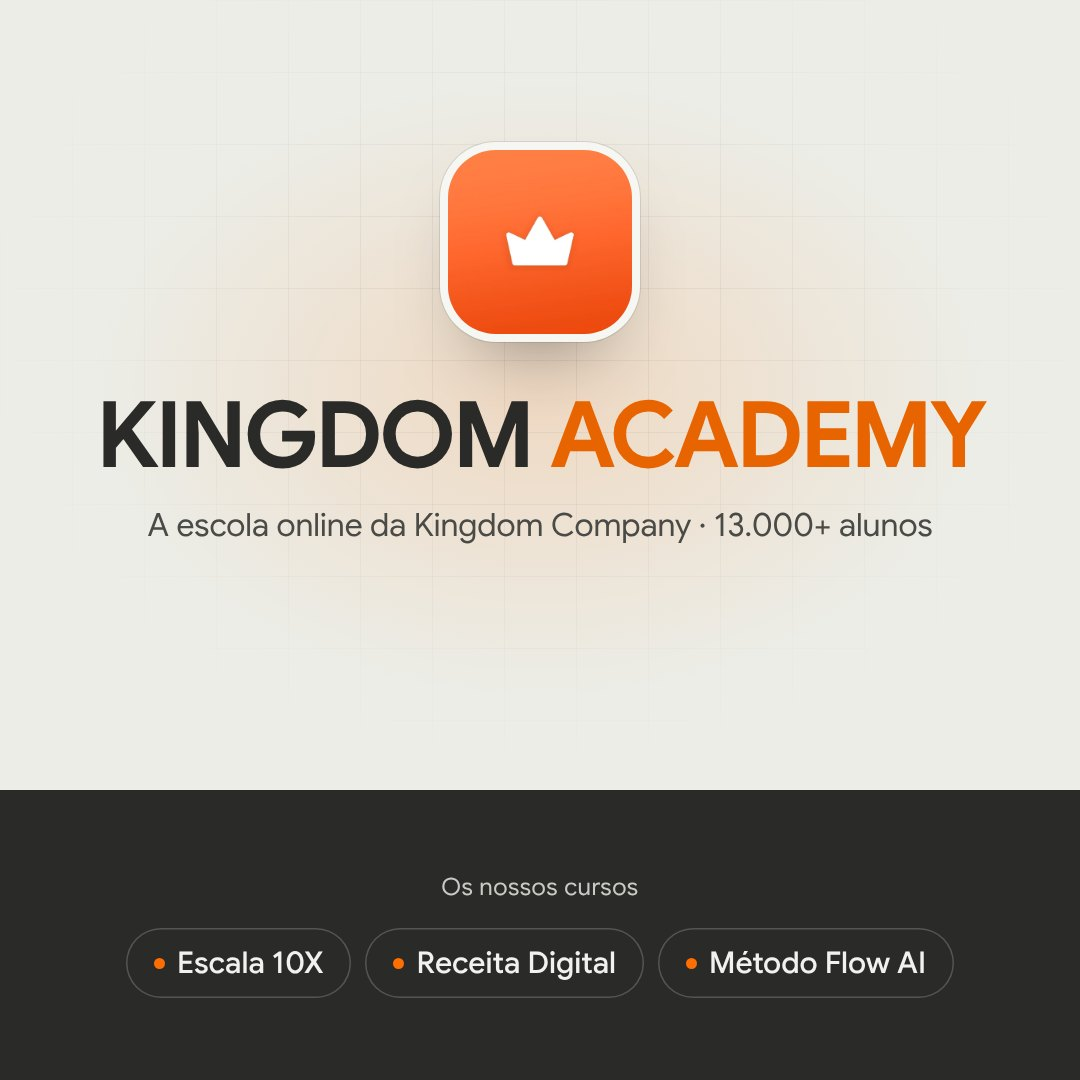
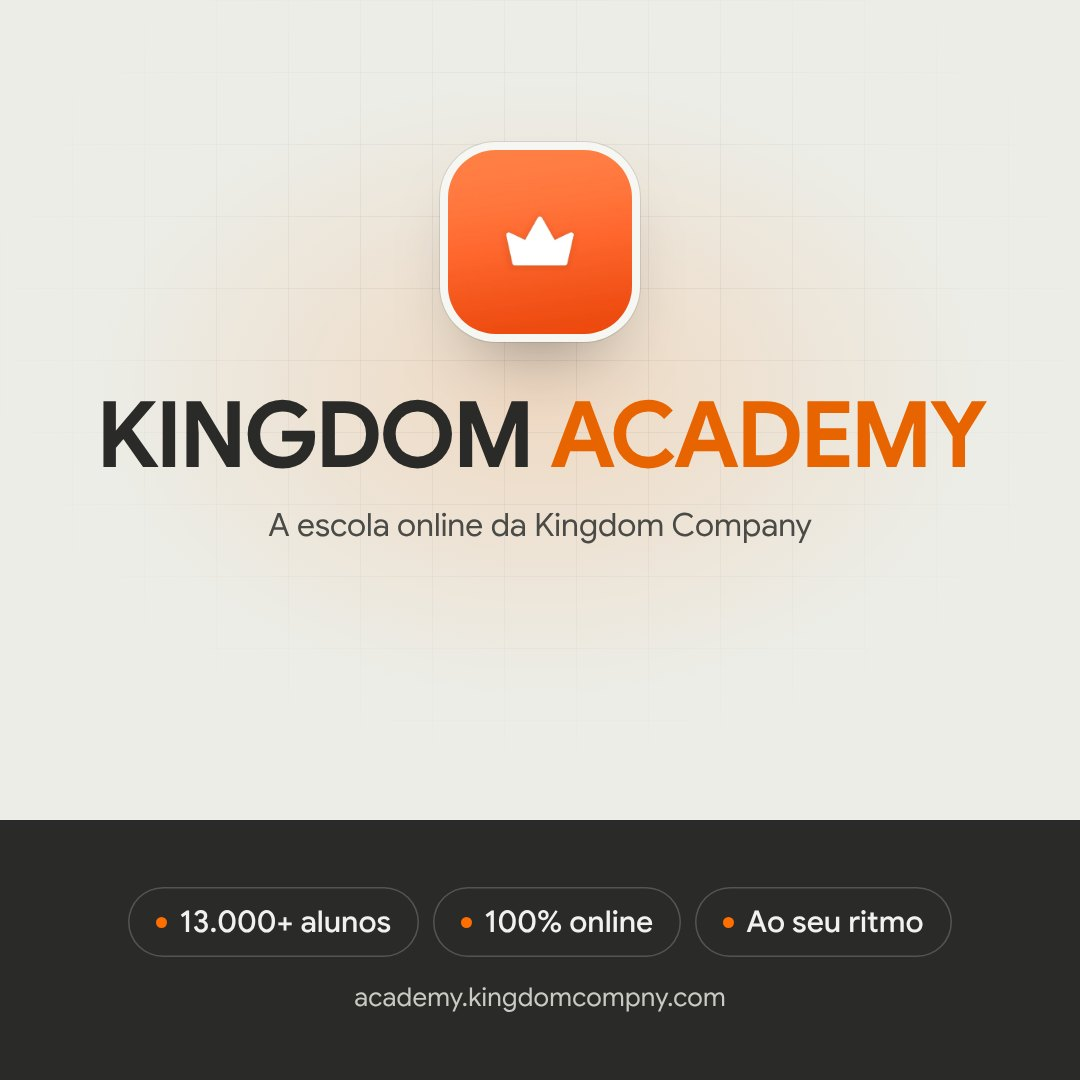
Kingdom Academy: a bio fica com o link do site e os 4 livros
Remove os cursos da bio e mostra os mesmos 4 livros da bio do Shelton.
A imagem de partilha deixa de mencionar os cursos.

Claude-Session: https://claude.ai/code/session_01GntpXVqeynhq8J4X3DzLVD

diff --git a/academy/bio/index.html b/academy/bio/index.html
@@ -6,11 +6,11 @@
 <meta charset="UTF-8">
 <meta name="viewport" content="width=device-width, initial-scale=1, viewport-fit=cover">
 <title>Kingdom Academy · Escola online</title>
-<meta name="description" content="A escola online da Kingdom Company: Escala 10X, Receita Digital e Método Flow AI. Cursos práticos de marketing digital, vendas e inteligência artificial.">
+<meta name="description" content="A escola online da Kingdom Company. Cursos práticos de marketing digital, vendas e inteligência artificial, e os livros de Shelton Douglas.">
 <meta property="og:type" content="profile">
 <meta property="og:url" content="https://academy.kingdomcompny.com/bio">
 <meta property="og:title" content="Kingdom Academy · Escola online">
-<meta property="og:description" content="Escala 10X, Receita Digital e Método Flow AI. Mais de 13.000 alunos já estudaram connosco.">
+<meta property="og:description" content="A escola online da Kingdom Company. Mais de 13.000 alunos já estudaram connosco.">
 <meta property="og:image" content="https://academy.kingdomcompny.com/og-kingdom-academy.jpg">
 <meta property="og:image:width" content="1080">
 <meta property="og:image:height" content="1080">
@@ -59,37 +59,20 @@
   .link.principal .link-texto small{ color:#C9CAC3; }
   .link.principal .ico-caixa{ background:var(--logo); color:#fff; box-shadow:none; }
 
-  /* cursos */
-  .cursos{ padding:64px 0 56px; }
-  .cursos h2{ font-size:clamp(28px,7vw,36px); margin-bottom:8px; }
-  .cursos .entrada{ font-size:16px; margin-bottom:28px; }
-  .curso{ display:grid; grid-template-columns:112px minmax(0,1fr); gap:18px; padding:16px; border-radius:22px; margin-bottom:12px; }
-  .curso-info{ display:flex; flex-direction:column; min-width:0; }
-  .curso-info .tipo-curso{ font-size:12.5px; color:var(--laranja-claro); margin-bottom:4px; }
-  .curso-info h3{ font-size:20px; line-height:1.2; letter-spacing:-.02em; margin-bottom:6px; }
-  .curso-info p{ font-size:14.5px; line-height:1.5; }
-  .curso-info .accao{ margin-top:auto; padding-top:14px; }
-  .curso-info .botao{ min-height:40px; padding:0 16px; font-size:14px; gap:8px; }
-  .curso-info .botao svg{ width:14px; height:14px; }
-
-  /* as capas dos cursos: tipografia grossa em maiúsculas, como no flyer da academia */
-  .capa-curso{ position:relative; align-self:start; aspect-ratio:4 / 5; border-radius:16px; overflow:hidden; display:flex; flex-direction:column; justify-content:flex-end; padding:12px;
-    font-weight:700; text-transform:uppercase; letter-spacing:-.03em; line-height:.9; box-shadow:0 0 0 1px rgba(236,237,231,.1), 0 16px 26px -14px rgba(0,0,0,.7); }
-  .capa-curso small{ display:block; font-size:12px; letter-spacing:.02em; }
-  .capa-curso b{ display:block; font-weight:700; }
-  .capa-curso svg{ position:absolute; top:12px; left:12px; width:22px; height:22px; }
-  .capa-escala{ background:var(--logo); color:#fff; }
-  .capa-escala b{ font-size:40px; }
-  .capa-escala small{ color:#2A2A28; font-size:13px; }
-  .capa-receita{ background:#ECEDE7; color:#2A2A28; }
-  .capa-receita b{ font-size:21px; }
-  .capa-receita b + b{ color:#A84300; }
-  .capa-receita svg{ color:#A84300; }
-  .capa-flow{ background:linear-gradient(160deg,#3F3F3B,#1E1E1C); color:#F1F2EE; }
-  .capa-flow b{ font-size:30px; color:var(--laranja); }
-  .capa-flow b + b{ color:#F1F2EE; font-size:24px; }
-  .capa-flow svg{ color:var(--laranja); }
-  @media (max-width:380px){ .curso{ grid-template-columns:92px minmax(0,1fr); gap:14px; } .capa-escala b{ font-size:32px; } .capa-receita b{ font-size:17px; } .capa-flow b{ font-size:24px; } }
+  /* livros, como na bio d'O Conselheiro */
+  .livros{ padding:64px 0 56px; }
+  .livros h2{ font-size:clamp(28px,7vw,36px); margin-bottom:8px; }
+  .livros .entrada{ font-size:16px; margin-bottom:28px; }
+  .livro{ display:grid; grid-template-columns:104px minmax(0,1fr); gap:18px; padding:16px; border-radius:22px; margin-bottom:12px; }
+  .capa{ width:100%; height:auto; align-self:center; filter:drop-shadow(0 14px 18px rgba(0,0,0,.45)); }
+  .livro-info{ display:flex; flex-direction:column; min-width:0; }
+  .livro-info .tipo-livro{ font-size:12.5px; color:var(--laranja-claro); margin-bottom:4px; }
+  .livro-info h3{ font-size:19px; line-height:1.2; letter-spacing:-.02em; margin-bottom:6px; }
+  .livro-info p{ font-size:14.5px; line-height:1.5; }
+  .livro-info .accao{ margin-top:auto; padding-top:12px; }
+  .livro-info .botao{ min-height:40px; padding:0 16px; font-size:14px; gap:8px; }
+  .livro-info .botao svg{ width:14px; height:14px; }
+  @media (max-width:380px){ .livro{ grid-template-columns:84px minmax(0,1fr); gap:14px; } }
 
   .bio-rodape{ padding:30px 0 calc(env(safe-area-inset-bottom,0px) + 34px); text-align:center; border-top:1px solid var(--linha); }
   .bio-rodape img{ width:40px; height:40px; margin:0 auto 10px; border-radius:11px; }
@@ -103,9 +86,6 @@
   <defs>
     <symbol id="i-seta-sobe" viewBox="0 0 24 24" fill="none" stroke="currentColor" stroke-width="1.8" stroke-linecap="round" stroke-linejoin="round"><path d="M7 17 17 7"/><path d="M8 7h9v9"/></symbol>
     <symbol id="i-coroa" viewBox="0 0 24 24" fill="currentColor"><path d="M3.2 8.6a.7.7 0 0 1 1-.8l4.2 2L11.4 4a.7.7 0 0 1 1.2 0l3 5.8 4.2-2a.7.7 0 0 1 1 .8l-1.9 9.3a1 1 0 0 1-1 .8H6.1a1 1 0 0 1-1-.8Z"/></symbol>
-    <symbol id="i-escala" viewBox="0 0 24 24" fill="none" stroke="currentColor" stroke-width="1.8" stroke-linecap="round" stroke-linejoin="round"><path d="m22 7-8.5 8.5-5-5L2 17"/><path d="M16 7h6v6"/></symbol>
-    <symbol id="i-receita" viewBox="0 0 24 24" fill="none" stroke="currentColor" stroke-width="1.8" stroke-linecap="round" stroke-linejoin="round"><rect x="2.5" y="6" width="19" height="12" rx="2.5"/><circle cx="12" cy="12" r="2.6"/><path d="M6 9.5v5M18 9.5v5"/></symbol>
-    <symbol id="i-flow" viewBox="0 0 24 24" fill="none" stroke="currentColor" stroke-width="1.8" stroke-linecap="round" stroke-linejoin="round"><path d="M12 3v3M12 18v3M3 12h3M18 12h3"/><path d="m12 7.5 1.4 3.1 3.1 1.4-3.1 1.4L12 16.5l-1.4-3.1L7.5 12l3.1-1.4Z"/></symbol>
   </defs>
 </svg>
 
@@ -135,39 +115,49 @@
     </div>
   </section>
 
-  <!-- ============ CURSOS ============ -->
-  <section class="cursos" id="cursos" aria-labelledby="cursos-titulo">
+  <!-- ============ LIVROS ============ -->
+  <section class="livros" id="livros" aria-labelledby="livros-titulo">
     <div class="bio-coluna">
-      <h2 class="revela" id="cursos-titulo">Os nossos cursos</h2>
-      <p class="entrada revela">Escolha por onde começar: vender online, dar os primeiros passos no digital ou pôr a inteligência artificial a trabalhar para si.</p>
+      <h2 class="revela" id="livros-titulo">Os livros de Shelton Douglas</h2>
+      <p class="entrada revela">Ferramentas práticas para ganhar clareza, vender melhor e posicionar-se com autoridade.</p>
 
-      <article class="curso cartao medio revela">
-        <div class="capa-curso capa-escala" aria-hidden="true"><svg><use href="#i-escala"/></svg><small>Escala</small><b>10X</b></div>
-        <div class="curso-info">
-          <span class="tipo-curso">Dropshipping e low-ticket</span>
-          <h3>Escala 10X</h3>
-          <p>Aprenda a vender online com dropshipping e produtos de baixo valor, e a transformar as primeiras vendas num negócio que escala.</p>
-          <div class="accao"><a class="botao botao-linha" href="https://escala10x.kingdomcompny.com/" target="_blank" rel="noopener" aria-label="Conhecer o curso Escala 10X">Conhecer o curso <svg aria-hidden="true"><use href="#i-seta-sobe"/></svg></a></div>
+      <article class="livro cartao medio revela">
+        <img class="capa" src="/img/livros/o-bloqueio-invisivel.webp" alt="Capa do livro O Bloqueio Invisível, de Shelton Douglas" width="300" height="600" loading="lazy">
+        <div class="livro-info">
+          <span class="tipo-livro">Livro</span>
+          <h3>O Bloqueio Invisível</h3>
+          <p>Um mapa prático para descobrir o que se passa consigo e começar a enxergar com clareza o que o impede de avançar, sem se sentir culpado.</p>
+          <div class="accao"><a class="botao botao-linha" href="https://obloqueio.kingdomcompny.com" target="_blank" rel="noopener" aria-label="Conhecer o livro O Bloqueio Invisível">Conhecer o livro <svg aria-hidden="true"><use href="#i-seta-sobe"/></svg></a></div>
         </div>
       </article>
 
-      <article class="curso cartao medio revela">
-        <div class="capa-curso capa-receita" aria-hidden="true"><svg><use href="#i-receita"/></svg><b>Receita</b><b>Digital</b></div>
-        <div class="curso-info">
-          <span class="tipo-curso">Para começar no marketing digital</span>
-          <h3>Receita Digital</h3>
-          <p>Para quem quer dar os primeiros passos no marketing digital através da estratégia de economia de arbitragem.</p>
-          <div class="accao"><a class="botao botao-linha" href="https://receitadigital.kingdomcompny.com/" target="_blank" rel="noopener" aria-label="Conhecer o curso Receita Digital">Conhecer o curso <svg aria-hidden="true"><use href="#i-seta-sobe"/></svg></a></div>
+      <article class="livro cartao medio revela">
+        <img class="capa" src="/img/livros/escala-previsivel.webp" alt="Capa do livro Escala Previsível, de Shelton Douglas" width="300" height="600" loading="lazy">
+        <div class="livro-info">
+          <span class="tipo-livro">Workbook</span>
+          <h3>Escala Previsível</h3>
+          <p>O workbook de vendas em escala para pequenos e médios negócios.</p>
+          <div class="accao"><a class="botao botao-linha" href="https://escalaprevisivel.kingdomcompny.com" target="_blank" rel="noopener" aria-label="Conhecer o livro Escala Previsível">Conhecer o livro <svg aria-hidden="true"><use href="#i-seta-sobe"/></svg></a></div>
         </div>
       </article>
 
-      <article class="curso cartao medio revela">
-        <div class="capa-curso capa-flow" aria-hidden="true"><svg><use href="#i-flow"/></svg><small>Método</small><b>Flow</b><b>AI</b></div>
-        <div class="curso-info">
-          <span class="tipo-curso">Inteligência artificial e automação</span>
-          <h3>Método Flow AI</h3>
-          <p>Um curso de inteligência artificial e automação de marketing, para fazer mais com menos tempo e menos esforço manual.</p>
-          <div class="accao"><a class="botao botao-linha" href="https://flowai.kingdomcompny.com/" target="_blank" rel="noopener" aria-label="Conhecer o curso Método Flow AI">Conhecer o curso <svg aria-hidden="true"><use href="#i-seta-sobe"/></svg></a></div>
+      <article class="livro cartao medio revela">
+        <img class="capa" src="/img/livros/o-criativo.webp" alt="Capa do livro O Criativo que Aprendeu a Vender, de Shelton Douglas" width="300" height="600" loading="lazy">
+        <div class="livro-info">
+          <span class="tipo-livro">Workbook</span>
+          <h3>O Criativo que Aprendeu a Vender</h3>
+          <p>Um guia prático para profissionais criativos que desejam transformar talento em rendimento.</p>
+          <div class="accao"><a class="botao botao-linha" href="https://ocriativo.kingdomcompny.com" target="_blank" rel="noopener" aria-label="Conhecer o livro O Criativo que Aprendeu a Vender">Conhecer o livro <svg aria-hidden="true"><use href="#i-seta-sobe"/></svg></a></div>
+        </div>
+      </article>
+
+      <article class="livro cartao medio revela">
+        <img class="capa" src="/img/livros/prisma-da-influencia.webp" alt="Capa do livro O Prisma da Influência, de Shelton Douglas" width="300" height="600" loading="lazy">
+        <div class="livro-info">
+          <span class="tipo-livro">Manual</span>
+          <h3>O Prisma da Influência</h3>
+          <p>Como se posicionar de maneira estratégica e tornar-se uma autoridade dentro do seu nicho.</p>
+          <div class="accao"><a class="botao botao-linha" href="https://prismadainfluencia.kingdomcompny.com" target="_blank" rel="noopener" aria-label="Conhecer o livro O Prisma da Influência">Conhecer o livro <svg aria-hidden="true"><use href="#i-seta-sobe"/></svg></a></div>
         </div>
       </article>
     </div>
